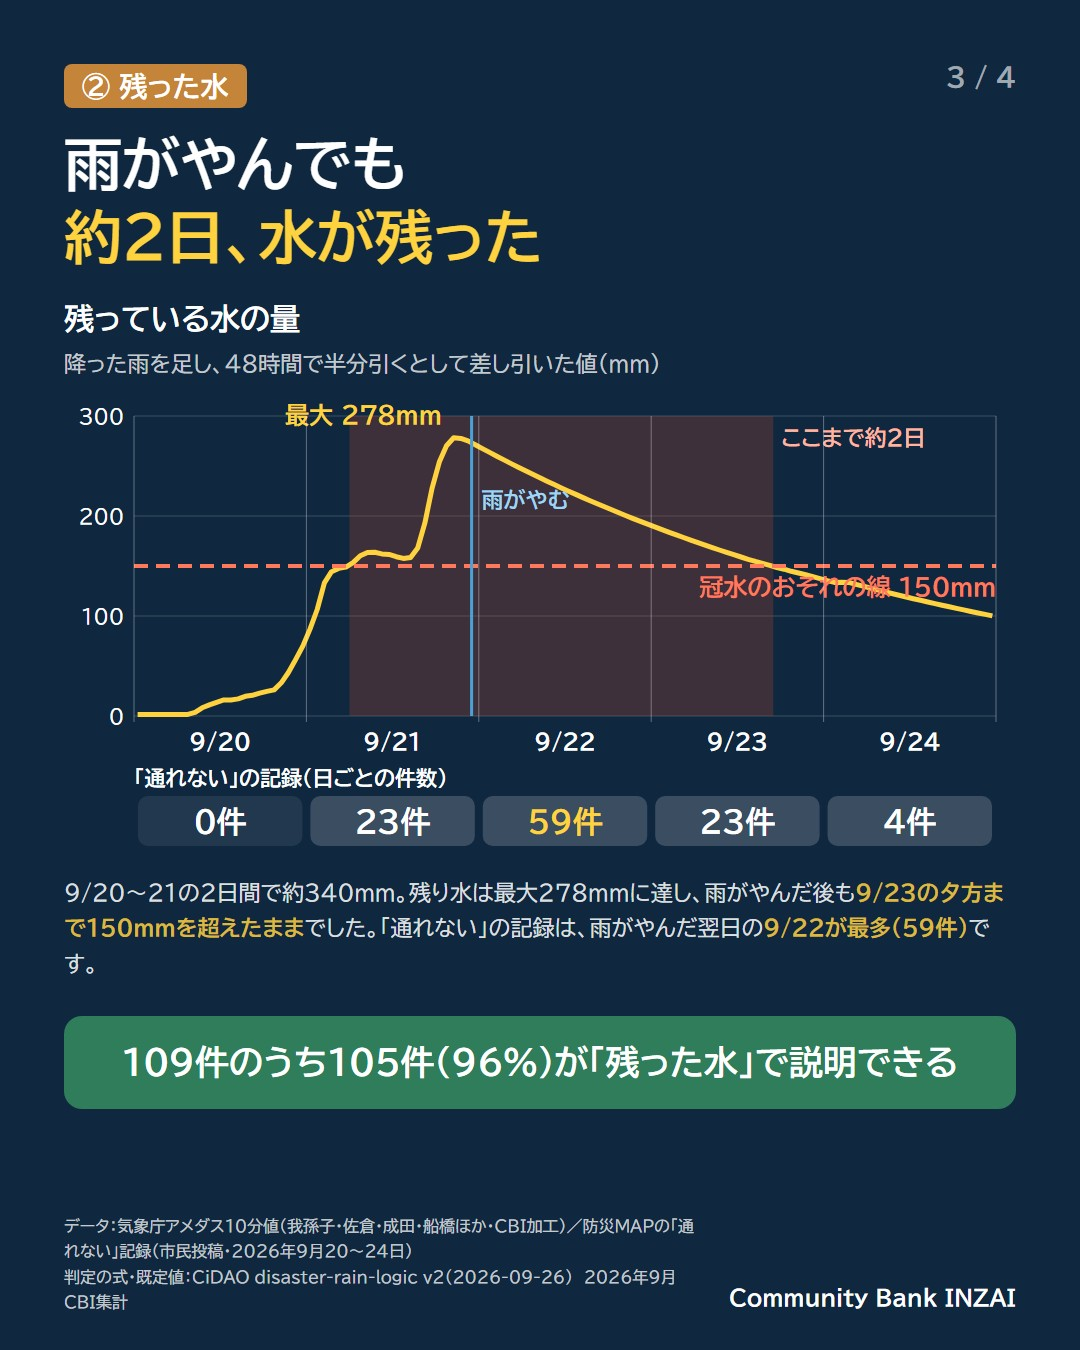
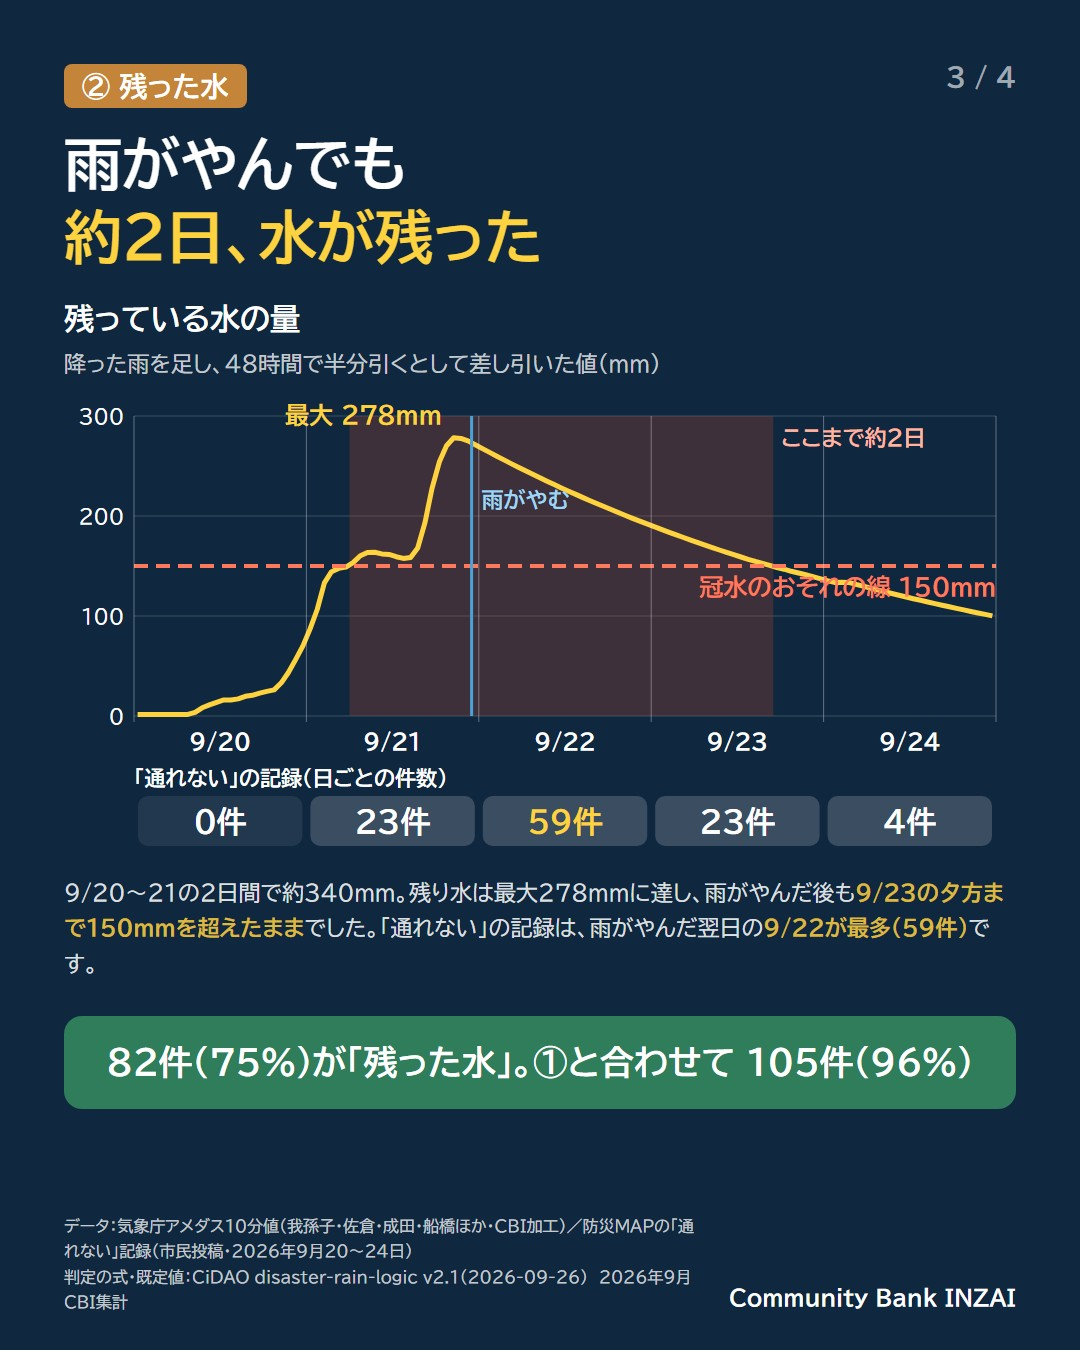
図解を判定 v2.1（排水の既定 20mm/時）に合わせて作り直す：雨の強さで説明できる23件と残った水の82件を分けて示す

Changed region(s): [[0.0917, 0.7778, 0.9167, 0.8089], [0.3972, 0.9333, 0.6417, 0.9644]]

diff --git a/assets/sns/2026-09-26_rain-logic/slides_source.html b/assets/sns/2026-09-26_rain-logic/slides_source.html
@@ -43,11 +43,11 @@ h2 .y{color:#ffd23f}
   <p class="lead" style="margin-top:20px">台風25号で防災MAPに寄せられた「通れない」109件を、<br>周辺の雨量データと突き合わせました。</p>
   <div class="card">
     <h3>結論</h3>
-    <p>冠水の原因は<span class="b">「一度に降る強さ」</span>ではなく、<br><span class="r">「引く速さを上回って降り続いた量」</span></p>
+    <p>冠水の主な原因は<span class="b">「一度に降る強さ」</span>より、<br><span class="r">「引く速さを上回って降り続いた量」</span></p>
   </div>
   <div class="box2">
-    <div><b>① 雨の強さ</b>排水の想定（50mm/時）を<br>一度も超えず<span class="num">最大 38mm/時</span></div>
-    <div><b>② 残った水</b>2日で約340mm降り、<br>やんでも約2日引かず<span class="num">109件中 105件</span>がこれで説明</div>
+    <div><b>① 雨の強さ</b>下水道の基準（50mm/時）は超えず。記録から逆算した排水（20mm/時）を超えたのは<span class="num">109件中 23件</span></div>
+    <div><b>② 残った水</b>2日で約340mm降り、<br>やんでも約2日引かず<span class="num">109件中 82件</span>がこれで説明（合計96%）</div>
   </div>
 </section>
 
@@ -55,7 +55,7 @@ h2 .y{color:#ffd23f}
 <section class="slide" data-s="2">
   <div class="pg">2 / 4</div>
   <span class="kicker">① 雨の強さ</span>
-  <h2>排水の想定を<br><span class="y">一度も超えていない</span></h2>
+  <h2>下水道の基準は超えず、<br><span class="y">実際は20mm/時であふれた</span></h2>
   <p class="lead">1時間あたりの雨<small>印西市役所付近・周辺4か所のアメダスの平均（9/20〜9/24）</small></p>
   <svg class="chart" viewBox="0 0 952 370" xmlns="http://www.w3.org/2000/svg">
 <line x1="70" y1="320.0" x2="932" y2="320.0" stroke="#ffffff" stroke-opacity=".18"/>
@@ -117,8 +117,13 @@ h2 .y{color:#ffd23f}
 <rect x="767.3" y="319.5" width="6.2" height="0.5" fill="#4aa3d8"/>
 <rect x="774.5" y="310.0" width="6.2" height="10.0" fill="#4aa3d8"/>
 <rect x="781.6" y="310.5" width="6.2" height="9.5" fill="#4aa3d8"/>
-<line x1="70" y1="70.0" x2="932" y2="70.0" stroke="#ff7a5c" stroke-width="4" stroke-dasharray="14 8"/>
-<text x="932" y="58.0" fill="#ff7a5c" font-size="24" font-weight="800" text-anchor="end">排水の想定 50mm/時</text>
+<rect x="235.2" y="20" width="35.9" height="300" fill="#b8492f" fill-opacity=".28"/>
+<rect x="350.2" y="20" width="50.3" height="300" fill="#b8492f" fill-opacity=".28"/>
+<line x1="70" y1="70.0" x2="932" y2="70.0" stroke="#9fd4f5" stroke-width="3" stroke-dasharray="10 8"/>
+<text x="932" y="58.0" fill="#9fd4f5" font-size="23" font-weight="700" text-anchor="end">下水道の基準 50mm/時（千葉市の例）</text>
+<line x1="70" y1="220.0" x2="932" y2="220.0" stroke="#ff7a5c" stroke-width="4" stroke-dasharray="14 8"/>
+<text x="932" y="208.0" fill="#ff7a5c" font-size="24" font-weight="800" text-anchor="end">記録から逆算した排水 20mm/時</text>
+<text x="227.2" y="50" fill="#ffb4a0" font-size="22" font-weight="700" text-anchor="end">あふれていた時間</text>
 <text x="368.1" y="116.5" fill="#ffd23f" font-size="24" font-weight="800" text-anchor="middle">最大 38mm</text>
 <line x1="70.0" y1="20" x2="70.0" y2="326" stroke="#fff" stroke-opacity=".35"/>
 <text x="156.2" y="354" fill="#fff" font-size="22" font-weight="700" text-anchor="middle">9/20</text>
@@ -132,8 +137,8 @@ h2 .y{color:#ffd23f}
 <text x="845.8" y="354" fill="#fff" font-size="22" font-weight="700" text-anchor="middle">9/24</text>
 <line x1="932.0" y1="20" x2="932.0" y2="326" stroke="#fff" stroke-opacity=".35"/>
 </svg>
-  <p class="note"><b>50mm/時</b>は、下水道の雨水計画で使われる「5年に1回程度の雨」の強さ（千葉市の例。印西市の値は公開資料で見つかりませんでした）。この強さまでなら排水が追いつく、という想定です。<br>台風25号は最大でも38mm/時。道路に降った雨そのものは、想定の範囲内でした。</p>
-  <div class="verdict warn">「雨の強さ」では、冠水を説明できない</div>
+  <p class="note"><b>50mm/時</b>は下水道の雨水計画で使う「5年に1回程度の雨」の強さ（千葉市の例。印西市の値は公開資料になし）。台風25号は最大38mm/時で、この基準は一度も超えていません。<br>ところが「通れない」の記録から逆算すると、<b>20mm/時であふれ始めて</b>いました。下水道の雨水管がない農道・低い土地・沼沿いの道で冠水が多いためと考えられます（推測）。</p>
+  <div class="verdict warn">「雨の強さ」で説明できるのは 109件中 23件（2割）</div>
 </section>
 
 <!-- 3 残った水 -->
@@ -183,7 +188,7 @@ h2 .y{color:#ffd23f}
 <text x="845.8" y="437" fill="#fff" font-size="30" font-weight="800" text-anchor="middle">4件</text>
 </svg>
   <p class="note">9/20〜21の2日間で約340mm。残り水は最大278mmに達し、雨がやんだ後も<b>9/23の夕方まで150mmを超えたまま</b>でした。「通れない」の記録は、雨がやんだ翌日の<b>9/22が最多（59件）</b>です。</p>
-  <div class="verdict ok">109件のうち105件（96%）が「残った水」で説明できる</div>
+  <div class="verdict ok">82件（75%）が「残った水」。①と合わせて 105件（96%）</div>
 </section>
 
 <!-- 4 まとめ -->
@@ -191,7 +196,7 @@ h2 .y{color:#ffd23f}
   <div class="pg">4 / 4</div>
   <span class="kicker">まとめ</span>
   <h2>バケツは<span class="y">2つ</span>ある</h2>
-  <svg class="buckets" viewBox="0 0 952 330" xmlns="http://www.w3.org/2000/svg">
+  <svg class="buckets" viewBox="0 0 952 350" xmlns="http://www.w3.org/2000/svg">
     <!-- 小さく速いバケツ -->
     <g transform="translate(40,20)">
       <path d="M40 40 L200 40 L180 220 L60 220 Z" fill="none" stroke="#9fd4f5" stroke-width="6"/>
@@ -201,7 +206,7 @@ h2 .y{color:#ffd23f}
       <path d="M235 185 L262 200 L235 215 Z" fill="#4aa3d8"/>
       <text x="120" y="18" fill="#fff" font-size="26" font-weight="800" text-anchor="middle">側溝・下水道</text>
       <text x="120" y="262" fill="#9fd4f5" font-size="24" font-weight="700" text-anchor="middle">小さいが、速い</text>
-      <text x="120" y="296" fill="#fff" font-size="24" text-anchor="middle">50mm/時 まで抜ける</text>
+      <text x="120" y="292" fill="#fff" font-size="24" text-anchor="middle">20mm/時ほどで</text><text x="120" y="322" fill="#fff" font-size="24" text-anchor="middle">あふれる（記録から逆算）</text>
     </g>
     <!-- 大きく遅いバケツ -->
     <g transform="translate(470,20)">
@@ -212,20 +217,20 @@ h2 .y{color:#ffd23f}
       <text x="230" y="18" fill="#fff" font-size="26" font-weight="800" text-anchor="middle">沼・川・低い土地</text>
       <text x="230" y="170" fill="#fff" font-size="30" font-weight="800" text-anchor="middle">台風25号はこちらがあふれた</text>
       <text x="230" y="262" fill="#ffd23f" font-size="24" font-weight="700" text-anchor="middle">大きいが、遅い</text>
-      <text x="230" y="296" fill="#fff" font-size="24" text-anchor="middle">半分引くのに 48時間</text>
+      <text x="230" y="292" fill="#fff" font-size="24" text-anchor="middle">半分引くのに 48時間</text><text x="230" y="322" fill="#fff" font-size="24" text-anchor="middle">（記録から当てはめ）</text>
     </g>
   </svg>
   <p class="big" style="margin-top:26px">「雨がやんだ」は「水が引いた」ではありません。<br>台風25号では、やんでから約2日、<br>通れない道が残りました。</p>
   <p class="note" style="margin-top:22px">防災MAPでは、この2つの見方で「冠水のおそれ」の時間帯を判定し、記録に添えています。</p>
   <ul class="limits">
-    <li>1回の台風で当てはめた値です。次の大雨の記録で見直します。</li>
+    <li>1回の台風で当てはめた値です（20mm/時は降っている最中の記録26件から逆算・確かさ低め）。次の大雨の記録で見直します。</li>
     <li>印西市内に雨量観測点がないため、周辺4か所の平均を使っています。</li>
     <li>時間帯の目安であり、場所ごとの差までは分かりません（同じ時間帯に「通れた」記録も多数あります）。</li>
   </ul>
 </section>
 
 <div class="foot">
-  <div class="src">データ：気象庁アメダス10分値（我孫子・佐倉・成田・船橋ほか・CBI加工）／防災MAPの「通れない」記録（市民投稿・2026年9月20〜24日）<br>判定の式・既定値：CiDAO disaster-rain-logic v2（2026-09-26）　2026年9月 CBI集計</div>
+  <div class="src">データ：気象庁アメダス10分値（我孫子・佐倉・成田・船橋ほか・CBI加工）／防災MAPの「通れない」記録（市民投稿・2026年9月20〜24日）<br>判定の式・既定値：CiDAO disaster-rain-logic v2.1（2026-09-26）　2026年9月 CBI集計</div>
   <div class="org">Community Bank INZAI</div>
 </div>
 <script>

diff --git a/assets/sns/2026-09-26_rain-logic/caption.md b/assets/sns/2026-09-26_rain-logic/caption.md
@@ -4,33 +4,34 @@
 
 防災MAPに寄せられた「通れない」109件（9/20〜9/24）を、周辺の雨量データと突き合わせました。
 
-結論：冠水の原因は「一度に降る強さ」ではなく、「引く速さを上回って降り続いた量」でした。
+結論：冠水の主な原因は「一度に降る強さ」より、「引く速さを上回って降り続いた量」でした。
 
 【① 雨の強さ】
 1時間あたりの雨は、最大でも38mm（9/21 17時ごろ・印西市役所付近の周辺4か所平均）。
-下水道の雨水計画で使われる「5年に1回程度の雨」＝50mm/時（千葉市の例）を、一度も超えていません。
-道路に降った雨そのものは、排水の想定の範囲内でした。
+下水道の雨水計画で使われる「5年に1回程度の雨」＝50mm/時（千葉市の例）は、一度も超えていません。
+ところが「通れない」の記録から逆算すると、20mm/時であふれ始めていました。下水道の雨水管がない農道・低い土地・沼沿いの道で冠水が多いためと考えられます（推測）。
+雨の強さで説明できるのは、109件のうち23件（2割）です。
 
 【② 残った水】
 9/20〜21の2日間で約340mm。降った雨を足し、48時間で半分引くとして差し引いた「残り水」は最大278mmに達し、雨がやんだ後も9/23の夕方まで150mmを超えたままでした。
-「通れない」の記録は、雨がやんだ翌日の9/22が最多（59件）。109件のうち105件（96%）が、この「残った水」の時間帯に入っています。
+「通れない」の記録は、雨がやんだ翌日の9/22が最多（59件）。82件（75%）がこの「残った水」の時間帯に入り、①と合わせると105件（96%）になります。
 
 【バケツは2つある】
-・側溝・下水道：小さいが速い。50mm/時までは抜ける
+・側溝・下水道：小さいが速い。実際は20mm/時ほどであふれる（記録から逆算）
 ・沼・川・低い土地：大きいが遅い。半分引くのに48時間
-台風25号であふれたのは、後者でした。
+台風25号であふれたのは、主に後者でした。
 「雨がやんだ」は「水が引いた」ではありません。台風25号では、やんでから約2日、通れない道が残りました。
 
 防災MAPでは、この2つの見方で「冠水のおそれ」の時間帯を判定し、記録に添えています。
 
 ※この検証の限界
-・1回の台風で当てはめた値です。次の大雨の記録で見直します。
+・1回の台風で当てはめた値です（20mm/時は降っている最中の記録26件から逆算した値で、確かさは低め）。次の大雨の記録で見直します。
 ・印西市内に雨量観測点がないため、周辺4か所（我孫子・佐倉・成田・船橋ほか）の平均を使っています。
 ・時間帯の目安であり、場所ごとの差までは分かりません。同じ時間帯に「通れた」記録も多数あります。
 
 ▼データ
 気象庁アメダス10分値（CBI加工）／防災MAPの「通れない」記録（市民投稿）
-判定の式・既定値：CiDAO disaster-rain-logic v2（2026-09-26）
+判定の式・既定値：CiDAO disaster-rain-logic v2.1（2026-09-26）
 
 ▼数値を変えて試せる説明ページ（判定の考え方・根拠）
 https://communitybankinzai.github.io/cbi-site/inzai-disaster-map/rain-logic.html
@@ -50,15 +51,15 @@ https://communitybankinzai.github.io/cbi-site/inzai-disaster-map/
 
 防災MAPの「通れない」109件を雨量データと突き合わせました。
 
-結論：「一度に降る強さ」ではなく「引く速さを上回って降り続いた量」が原因でした。
+結論：主な原因は「一度に降る強さ」より「引く速さを上回って降り続いた量」でした。
 
-① 1時間の雨は最大38mm。排水の想定（50mm/時）を一度も超えず。
-② 2日で約340mm。48時間で半分引くとした「残り水」は最大278mm、雨がやんだ後も約2日150mm超え。「通れない」は雨がやんだ翌日9/22が最多（59件）。109件中105件がこの時間帯。
+① 1時間の雨は最大38mm。下水道の基準（50mm/時）は超えず。ただし記録から逆算すると20mm/時であふれ始めていた。強さで説明できるのは23件（2割）。
+② 2日で約340mm。48時間で半分引くとした「残り水」は最大278mm、雨がやんだ後も約2日150mm超え。「通れない」は雨がやんだ翌日9/22が最多（59件）。82件（75%）がこの時間帯、合わせて105件（96%）。
 
 「雨がやんだ」は「水が引いた」ではありません。
 
 ※1回の台風で当てはめた値。市内に観測点がなく周辺4か所の平均。場所ごとの差は分かりません。
 
-https://communitybankinzai.github.io/cbi-site/inzai-disaster-map/
+https://communitybankinzai.github.io/cbi-site/inzai-disaster-map/rain-logic.html
 
 #印西市 #防災 #台風25号
